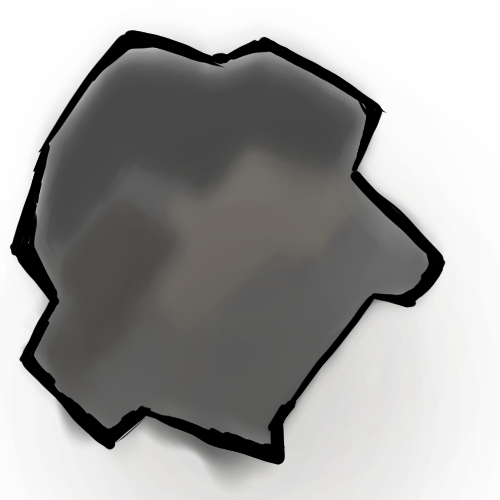
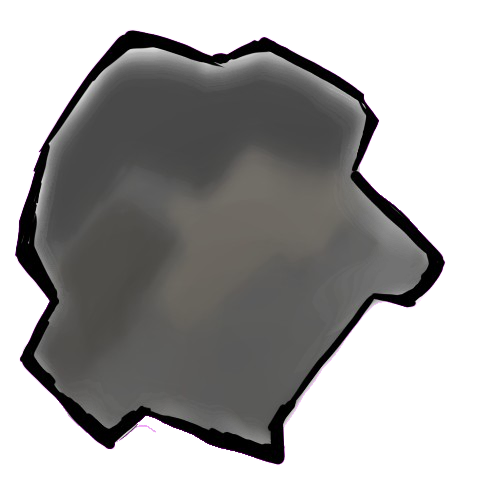
Made it WAY BETTER!!!!!!!!!!

diff --git a/Game Objects/Player.cpp b/Game Objects/Player.cpp
@@ -24,6 +24,8 @@ void Player::update(float delta_time)
          timer_reload--;
          if (timer_reload < 1) {my_bullets = 16; }
      }
+    if (sound_engine.get_volume() > 0) sound_engine.setVolume(sound_engine.get_volume() - 100);
+    if (sound_engine.get_volume() < 0) sound_engine.setVolume(0);
 
     calculate_movement();
     node_phy.angle_radians = node_phy.angle_degrees * (3.14159265f / 180.f);
@@ -95,6 +97,11 @@ void Player::update(float delta_time)
 
     node_draw.node_hitbox.update_hitbox(node_phy.position,sf::degrees(node_phy.angle_degrees));
 
+    booster_left.update(node_draw.sprite.getPosition(), node_phy.angle_degrees + 90, booster_left.showing,
+        {node_draw.origin.x- 40,node_draw.origin.y- 510}, blink_frames);
+    booster_right.update(node_draw.sprite.getPosition(), node_phy.angle_degrees + 90, booster_right.showing,
+        {node_draw.origin.x- 400,node_draw.origin.y- 510}, blink_frames);
+
 }
 
 void Player::collided()
@@ -114,6 +121,7 @@ void Player::player_loses()
         sound_die.setVolume(90);
         sound_die.play();
     }
+    sound_engine.setVolume(0);
     node_draw.flag_render_self = false;
     label_dead = true;
 }
@@ -138,14 +146,27 @@ std::vector<sf::Keyboard::Key> Player::check_for_input()
     if (sf::Keyboard::isKeyPressed(sf::Keyboard::Key::W))
     {
         keys_pressed.push_back(sf::Keyboard::Key::W);
+    } else if (boosters_showing == 2)
+    {
+        booster_right.showing = false;
+        booster_left.showing = false;
+        boosters_showing = 0;
     }
     if (sf::Keyboard::isKeyPressed(sf::Keyboard::Key::D))
     {
         keys_pressed.push_back(sf::Keyboard::Key::D);
+    } else if (boosters_showing == 3)
+    {
+        boosters_showing = 0;
+        booster_left.showing = false;
     }
     if (sf::Keyboard::isKeyPressed(sf::Keyboard::Key::A))
     {
         keys_pressed.push_back(sf::Keyboard::Key::A);
+    } else if (boosters_showing == 1)
+    {
+        boosters_showing = 0;
+        booster_right.showing = false;
     }
     if (sf::Keyboard::isKeyPressed(sf::Keyboard::Key::Space))
     {
@@ -162,16 +183,37 @@ void Player::calculate_movement()
 
     for (auto i : keys_pressed)
     {
+        if (i == sf::Keyboard::Key::W)
+        {
+            booster_right.showing = true;
+            booster_left.showing = true;
+            boosters_showing = 2;
+        } else if (i == sf::Keyboard::Key::A)
+        {
+            booster_right.showing = true;
+            if ((boosters_showing != 2) or (boosters_showing != 3)) boosters_showing = 1;
+        }
+        else if ((i == sf::Keyboard::Key::D))
+        {
+            booster_left.showing = true;
+            if ((boosters_showing != 2) or (boosters_showing != 1))  boosters_showing = 3;
+        }
+
+
         switch (i)
         {
         case sf::Keyboard::Key::A:
             {
                 velocity_turning    -= SPEED_TURNING * p_delta_time;
+                if (sound_engine.get_volume() < 100)
+                    sound_engine.setVolume(sound_engine.get_volume() + 100);
             }
             break;
         case sf::Keyboard::Key::D:
             {
                 velocity_turning    += SPEED_TURNING * p_delta_time;
+                if (sound_engine.get_volume() < 100)
+                    sound_engine.setVolume(sound_engine.get_volume() + 100);
             }
             break;
         case sf::Keyboard::Key::W:
@@ -179,7 +221,11 @@ void Player::calculate_movement()
                 velocity_x += std::cos(currently_moving_direction) * SPEED_MOVE * p_delta_time;
                 velocity_y += std::sin(currently_moving_direction) * SPEED_MOVE * p_delta_time;
 
+                if (sound_engine.get_volume() < 300)
+                    sound_engine.setVolume(sound_engine.get_volume() + 300);
+
                 new_movement_recorded = true;
+
             }
             break;
         case sf::Keyboard::Key::Space:
@@ -210,4 +256,39 @@ void Player::shoot()
 
 
 }
+
+void Boosters::update(sf::Vector2f position, float angle_degrees, bool given_showing, sf::Vector2f origin, float blink_frames)
+{
+    showing = given_showing;
+    if (showing == false)
+        node_draw.flag_render_self = false;
+    else
+        node_draw.flag_render_self = true;
+
+    int iblink_frames = static_cast<int>(blink_frames);
+    if ((iblink_frames % 2) == 1 and node_draw.flag_render_self == true)
+    {
+        node_draw.flag_render_self = false;
+    }
+    if (blink_frames > 0)
+    {
+        blink_frames -= 0.1;
+    }
+
+    node_draw.sprite.setPosition(position);
+    node_draw.sprite.setRotation(sf::degrees(angle_degrees));
+    node_draw.sprite.setOrigin(origin);
+}
+
+void Boosters::collided()
+{
+
+}
+
+void Boosters::update(float delta_time)
+{
+
+}
+
+
 

diff --git a/Game Objects/Player.h b/Game Objects/Player.h
@@ -8,6 +8,18 @@
 #include "SFML/Audio.hpp"
 #include "../Engine Systems/sound_container.h"
 
+class Boosters : public Entity
+{
+    using Entity::Entity;
+
+    void update(float delta_time) override;
+    void collided() override;
+
+public:
+    void update(sf::Vector2f position, float angle_degrees, bool given_showing, sf::Vector2f origin, float blink_frames);
+    bool showing = false;
+};
+
 class Player : public Entity
 {
 public:
@@ -31,7 +43,10 @@ public:
         : Entity(given_r_engine, given_log, sprite_file), r_engine(given_r_engine), obj_manager(given_obj_manager),
           sound_shoot("/Users/chris/CLionProjects/Engine/SFMLEIG 1.0/Assets/Music/laserShoot.wav"),
           sound_die("/Users/chris/CLionProjects/Engine/SFMLEIG 1.0/Assets/Music/death_soundV3.mp3"),
-          sound_hit("/Users/chris/CLionProjects/Engine/SFMLEIG 1.0/Assets/Music/hitHurt.wav")
+          sound_hit("/Users/chris/CLionProjects/Engine/SFMLEIG 1.0/Assets/Music/hitHurt.wav"),
+          sound_engine("/Users/chris/CLionProjects/Engine/SFMLEIG 1.0/Assets/Music/Engine_sound_v4.wav"),
+          booster_right(r_engine, log, "/Users/chris/CLionProjects/Engine/SFMLEIG 1.0/Assets/Art/booster.png"),
+          booster_left(r_engine, log, "/Users/chris/CLionProjects/Engine/SFMLEIG 1.0/Assets/Art/booster.png")
 
     {
         node_phy.position.x = 350;
@@ -41,14 +56,16 @@ public:
         node_draw.sprite.setRotation(corrected_player_angle);
 
         node_draw.my_type = PLAYER;
-        node_draw.origin = {250,250};
-        node_draw.scale = {0.1,0.1};
-        sf::Vector2f hitbox_transformation = {200,200};
+        node_draw.origin = {250, 250};
+        node_draw.scale = {0.1, 0.1};
+        sf::Vector2f hitbox_transformation = {200, 200};
 
         node_draw.node_hitbox.set_transformations(hitbox_transformation);
         node_draw.node_hitbox.set_size(node_draw.sprite);
         node_draw.node_hitbox.set_scale(node_draw.scale);
-        node_draw.node_hitbox.set_origin({node_draw.node_hitbox.get_origin().x + 60, node_draw.node_hitbox.get_origin().y});
+        node_draw.node_hitbox.set_origin({
+            node_draw.node_hitbox.get_origin().x + 60, node_draw.node_hitbox.get_origin().y
+        });
 
         node_draw.sprite.setOrigin(node_draw.origin);
         node_draw.sprite.setScale(node_draw.scale);
@@ -57,6 +74,12 @@ public:
         sound_shoot.setVolume(10);
         sound_die.setVolume(15);
 
+        sound_engine.setVolume(0);
+        sound_engine.play();
+        sound_engine.set_looping(true);
+
+        booster_left.node_draw.sprite.setScale({0.1,0.1});
+        booster_right.node_draw.sprite.setScale({0.1,0.1});
     }
 
     inline int get_lives() const            { return  lives; }
@@ -77,6 +100,13 @@ private:
     Sound_Container sound_shoot;
     Sound_Container sound_hit;
     Sound_Container sound_die;
+    Sound_Container sound_engine;
+
+    Boosters booster_right;
+    Boosters booster_left;
+    bool show_right_b = true;
+    bool show_left_b  = true;
+    int boosters_showing = 0;
 
     std::vector<Sound_Container> booster_sounds;
     int timer_booster = 0;

diff --git a/Game Objects/Asteroids_Game.cpp b/Game Objects/Asteroids_Game.cpp
@@ -34,6 +34,11 @@ void Asteroids_Game::run_game()
     else
          window.setIcon(da_icon.getSize(), da_icon.getPixelsPtr());
 
+    if (background.texture.loadFromFile("/Users/chris/CLionProjects/Engine/SFMLEIG 1.0/Assets/Art/space_background.png"))
+        std::cout << "rip, no background now\n";
+
+    background.sprite = sf::Sprite(background.texture);
+
     ImGui::SFML::Init(window);
 
     obj_manager.player_is_dead = true;
@@ -329,6 +334,7 @@ void Asteroids_Game::run_game()
         window.clear();
         if (obj_manager.player_is_dead == false)
             update_objects();
+        window.draw(background.sprite);
         r_engine.draw_objects(window);
         ImGui::SFML::Render(window);
         window.display();

diff --git a/Game Objects/Asteroids_Game.h b/Game Objects/Asteroids_Game.h
@@ -61,12 +61,14 @@ private:
 
     Sound_Container sound_engine;
 
+     Draw_node background;
+
     bool playing_reloading_sound = false;
 
     // the index for sound_track
     int current_track_playing = 0;
     const float PLAYER_DEAD_MUSIC_VOLUME = 30;
-    const float MUSIC_VOLUME = 160;
+    const float MUSIC_VOLUME = 100;
 
 
 

diff --git a/Engine Systems/sound_container.h b/Engine Systems/sound_container.h
@@ -41,6 +41,10 @@ public:
     {
         sound.setVolume(v);
     }
+    float get_volume() const
+    {
+        return sound.getVolume();
+    }
     void set_pitch(const float p)
     {
         sound.setPitch(p);
